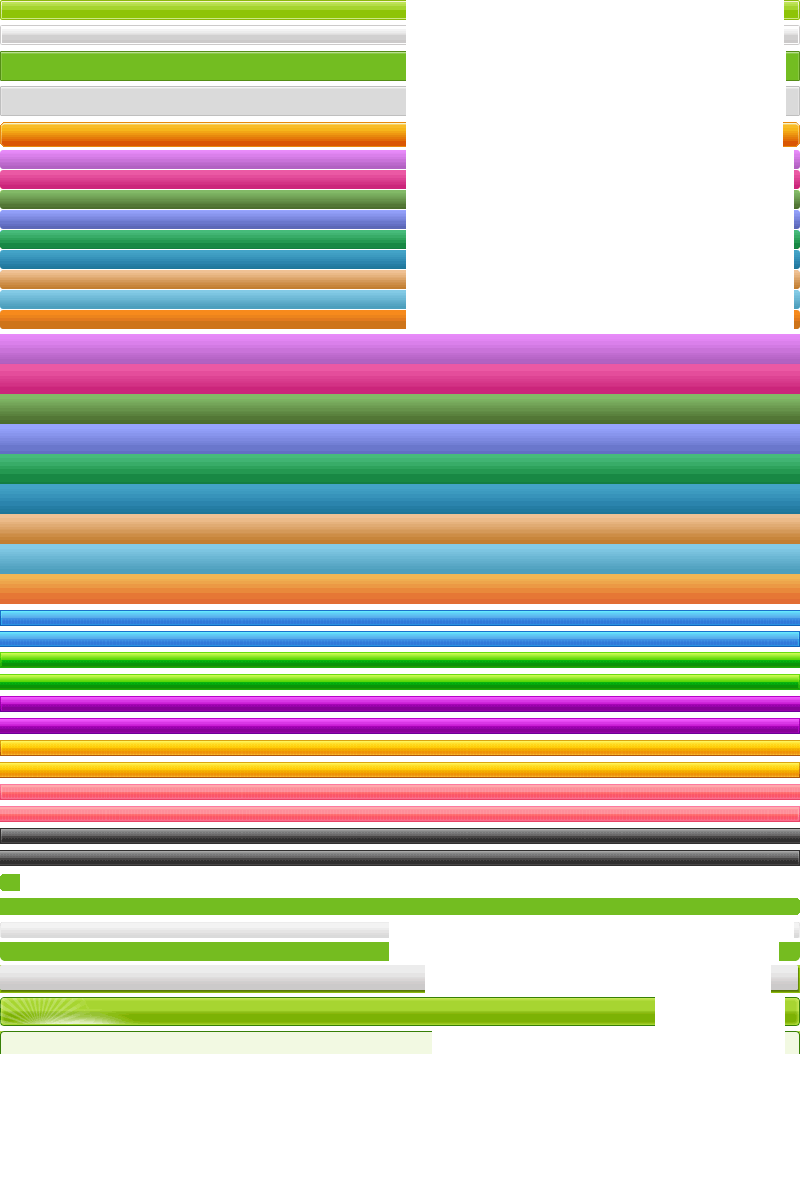
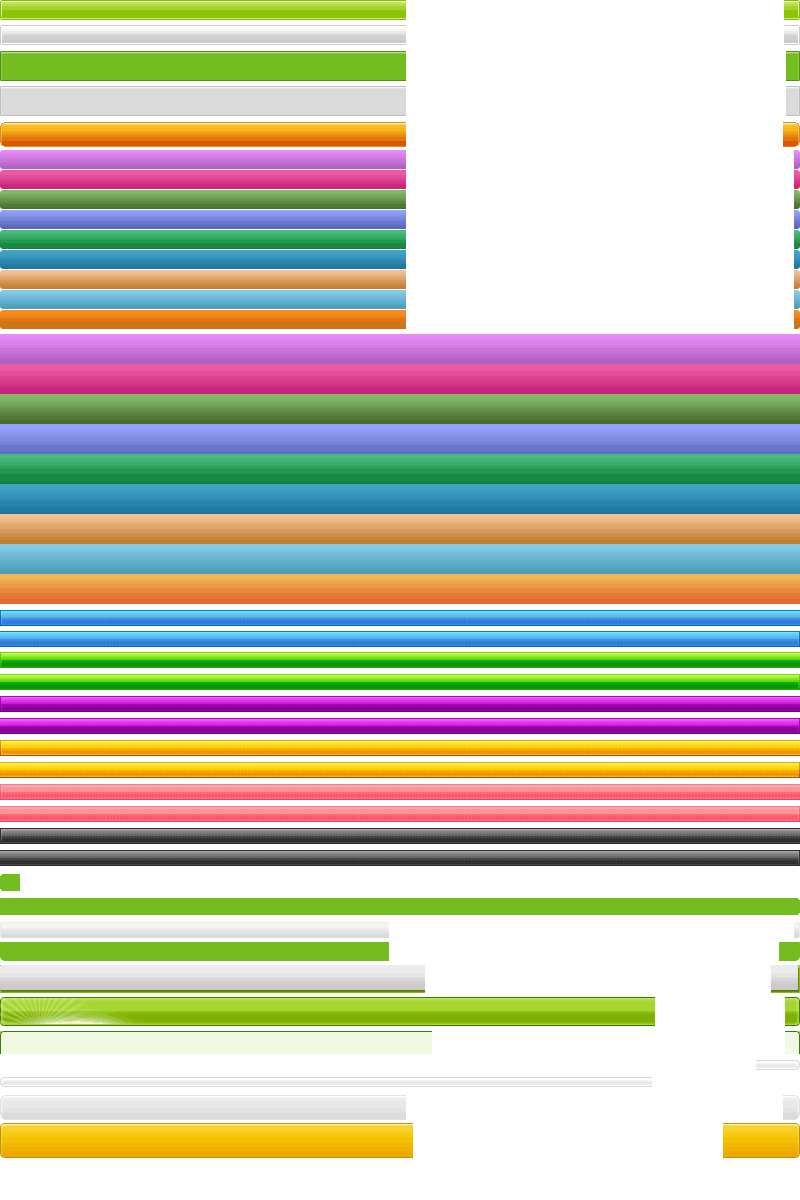
friends new

Changed region(s): [[0.0, 0.8942, 0.5312, 0.9867], [0.9062, 0.925, 1.0, 0.9867]]

diff --git a/public/stylesheets/home.css b/public/stylesheets/home.css
@@ -1320,6 +1320,7 @@ span.i,a.i,.i40{width:16px;height:16px;margin-right:3px;display:-moz-inline-stac
 .iTopic{background-position:-16px -327px;}
 .iToggleUp{background-position:-96px -25px}
 .iViewOrig{background-position:0 -146px}
+.iArrLeft{background:url(../images/skin/arrow.gif) no-repeat 0 -167px;width:4px;height:7px}
 .iArr02Down{background:url(../images/skin/arrow.gif) no-repeat 3px -146px}
 .iArr03{background-position:-17px -90px;width:14px;height:14px}
 .iSquare{background-position:-190px -69px}
@@ -1330,8 +1331,12 @@ a.iActBtn{width:142px;height:44px;background-position:0 -1110px}
 .iArrUnFold{background-position:-60px -764px}
 .iArrFold{background-position:-76px -764px}
 .iAdd02{background-position:-61px -742px}
+.iVerified{background-position:-16px -428px}
 /*.iSetAvatar{background-position:-18px -429px}
 */
+.iPlus{background-position:-48px -429px}
+.iMinus{background-position:-32px -429px}
+
 span.iGuild02{width:23px;height:27px;background-position:-81px -935px}
 span.iFunc02{width:19px;height:27px;background-position:-104px -935px}
 span.iRole02{width:19px;height:27px;background-position:-123px -935px}
@@ -1884,7 +1889,6 @@ span.sBtn button,span.sBtn a{height:25px;display:inline-block;line-height:25px;_
 
 .photoFeed .mList ul{float:left}
 .photoFeed .mList li{float:left;margin:5px;overflow:hidden;width:120px;}
-.photoFeed .mList img{width:100px;}
 .photoFeed .expand{float:left;width:23px;height:24px;display:block;font-size:0;line-height:0;text-indent:-999px;background:url(../images/skin/skin2010.png) no-repeat -98px -760px;margin-top:20px}
 .photoFeed .sList li{float:left;margin:5px;overflow:hidden;width:65px;height:65px}
 .photoFeed .sList img{width:50px;height:50px}
@@ -2017,7 +2021,44 @@ body.themeBg{background:#9c9c9c url(../images/skin/body-bg.jpg) no-repeat center
 .gameIntroPop .ft{margin-top:10px}
 .gameIntroPop .ft a{color:#e26a00;font-weight:700;margin-right:20px}
 
+/*陌生人提示*/
+.authTips{width:80%;margin:0 auto;padding:20px;text-align:center}
 
 /*个人主页-档案*/
 .acMain .archives-box .percent-box .percent{width:200px}
 .acMain .archives-box .edit-toggle .fldid{width:80px}
+
+/*头像编辑*/
+.avatarEdit{margin:15px}
+.avatarEdit .avtCurrent{width:300px;margin-top:20px}
+.avtEditor,.avtResult{margin-top:20px}
+.avtEditor .tips,.avtResult .tips{margin:20px 20px 0 20px}
+.avtEditor .avtWrap {padding:20px 20px 20px 440px}
+.avtEditor .avtWrap .panel{float:left;margin-left:-420px;_display:inline;width:400px;}
+.avtEditor .avtWrap .preview{float:left;width:100%}
+
+.avtEditor .avtM .bd a,.avtEditor .avtL .bd a{width:60px;height:60px;border:2px solid #F8FCF6;display: block;position:relative}
+.avtEditor .avtM .bd a:hover,.avtEditor .avtL .bd a:hover,.avtEditor .preview .selected .bd a{border:2px solid #c1dd7e}
+.avtEditor .avtM .bd a span.i{position:absolute;top:27px;left:-6px;visibility:hidden}
+.avtEditor .avtM .bd a:hover span.i,.avtEditor .avtL .bd a:hover span.i,.avtEditor .preview .selected .bd a span.i{visibility:visible}
+.avtEditor .avtM img,.avtEditor .avtL img{margin:5px 0 0 5px}
+.avtEditor .avtL{margin-top:20px}
+.avtEditor .avtL .bd a{width:240px;height:240px}
+.avtEditor .avtL .bd a span.i{position:absolute;top:110px;left:-6px;visibility:hidden}
+.avtEditor .preview .ft{margin-top:10px;color:#999}
+.avtEditor .preview .selected .ft .op{visibility:hidden}
+.avtEditor .preview .ft span{margin-right:15px}
+
+.zoomBar{margin:10px 0}
+.zoomBar li{float:left;margin:0 3px}
+.zoomBar .slideBar{width:280px;height:14px;padding-right:10px;background:url(../images/skin/btn2010.png) no-repeat right -1058px;}
+.zoomBar .slideBar span{display:block;height:14px;background:url(../images/skin/btn2010.png) no-repeat 0 -1075px;}
+.zoomBar .slideBar .btn{display:block;width:22px;height:14px;background:url(../images/skin/skin2010.png) no-repeat -45px -413px;margin-left:10px}
+.zoomBar .op{font-weight:700;font-family: Tahoma, Geneva, sans-serif;font-size:12px}
+
+.avtResult .avtWrap{padding:20px}
+.avtResult .tips{border-bottom:1px solid #ccc;padding-bottom:10px}
+.avtResult .avtShowM,.avtResult .avtShowL{float:left;width:80px;margin:30px;_display:inline;text-align:center;line-height:30px;color:#666;padding:10px 30px 30px 30px;border:1px solid #bbd2aa;background:#fff}
+.avtResult .avtShowL{width:260px;margin-left:80px}
+
+.avatarEdit .submit{padding:0 0 20px 320px;}

diff --git a/public/stylesheets/common.css b/public/stylesheets/common.css
@@ -479,9 +479,16 @@ div.table01 td,div.table01 th{border-bottom:1px #E7F0E0 solid;}
 .button03-gray span button{color:#999}
 
 .button04{float:left;cursor:pointer;display:block;background:url(../images/skin/btn2010.png) no-repeat right -122px;padding:0 10px 0 0;*padding:0 5px 0 0;}
-.button04 span{display:block;padding:0 0 0 10px;_padding:0 0 0 5px;background:url(../images/skin/btn2010.png) no-repeat 0 -122px;}
-.button04 span button,.button04 span input{border:0;cursor:pointer;display:block;margin:0 -10px;_margin:0 -5px;padding:0 10px 2px 10px;*padding:0 5px 2px 0;_padding:0;height:25px;line-height:25px;color:#fff;background:none;white-space:nowrap;width:auto;}/*照片详情 我来说说 IE6 BUG*/
+.button04 span,.button05 span{display:block;padding:0 0 0 10px;_padding:0 0 0 5px;background:url(../images/skin/btn2010.png) no-repeat 0 -122px;}
+.button04 span button,.button04 span input,.button05 span button,.button05 span input{border:0;cursor:pointer;display:block;margin:0 -10px;_margin:0 -5px;padding:0 10px 2px 10px;*padding:0 5px 2px 0;_padding:0;height:25px;line-height:25px;color:#fff;background:none;white-space:nowrap;width:auto;}/*照片详情 我来说说 IE6 BUG*/
+.button04-gray{background-position:right -1095px;}
+.button04-gray span{background-position:0 -1095px;}
+.button04-gray span button,.button04-gray span input{color:#999}
 
+.button05{cursor:pointer;display:inline-block;background:url(../images/skin/btn2010.png) no-repeat right -1123px;padding:0 30px 0 0;_padding:0 15px 0 0;}
+.button05 span{display:block;padding:0 0 0 30px;_padding:0 0 0 15px;background:url(../images/skin/btn2010.png) no-repeat 0 -1123px;}
+.button05 span button,.button05 span input,.button05 span a{border:0;cursor:pointer;display:block;margin:0 -30px;_margin:0 -15px;padding:0 30px;_padding:0 15px;height:35px;line-height:35px;font-size:16px;font-weight:700;color:#000;background:none;white-space:nowrap;width:auto;}
+.button05 span a{_display:inline-block;_padding:0 30px;}
 
 .textfield04{background:url(../images/skin/skin2010.png) no-repeat 0 -275px;width:110px;height:32px;overflow:hidden;vertical-align:middle;margin-top:6px}
 .textfield04 input{width:92px;border:0;background:none;margin:8px 0 0 8px}

diff --git a/app/controllers/user/friends_controller.rb b/app/controllers/user/friends_controller.rb
@@ -18,7 +18,13 @@ class User::FriendsController < UserBaseController
 
   def new
 		@common_friends = @user.common_friends_with(current_user).sort_by{rand}[0..7]
-    render :action => 'new', :layout => 'app2'
+    @friends = @user.friends.limit(8)
+		@guilds = @user.all_guilds.limit(3)
+    @skin = @profile.skin
+    @viewings = @profile.viewings.limit(8)
+    @messages = @profile.comments.nonblocked.paginate :page => params[:page], :per_page => 10
+    @remote = {:update => 'comments', :url => {:controller => 'user/wall_messages', :action => 'index', :wall_id => @profile.id, :wall_type => 'Profile'}}
+    render :action => 'new', :layout => 'app4'
   end
 
   def other
